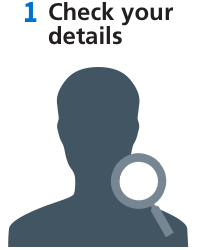
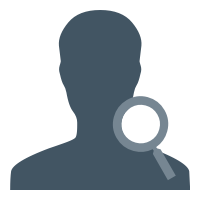
Edited process steps to not be a hacky non-accessible mess

Changed region(s): [[0.03, 0.0, 0.96, 0.99], [0.12, 0.0, 0.21, 0.09]]

diff --git a/views/v3/01-overview.html b/views/v3/01-overview.html
@@ -113,24 +113,54 @@
           </div>
         </div>
         <div class="grid-row">
+
           <div class="column--one-quarter">
+            <div class="grid-row marketing-icon-header">
+              <div class="column--one-quarter-align-right">
+                <h3 class="process-one">1.</h3>
+              </div>
+              <div class="column--three-quarters">
+                <h3>Check your details</h3>
+              </div>
+            </div>
             <img class="marketing-icon" alt="check your details icon"  src="/images/verify-icon.png" />
             <p class="marketing-icon-text">You enter your details and we look for your contact information in the NHS England patient database.</p>
           </div>
+
           <div class="column--one-eighth">
             <img class="next-icon-right" alt="next step indicator" src="/images/next-icon.png" />
           </div>
+
           <div class="column--one-quarter">
+            <div class="grid-row marketing-icon-header">
+              <div class="column--one-quarter-align-right">
+                <h3 class="process-two">2.</h3>
+              </div>
+              <div class="column--three-quarters">
+                <h3>Confirm your identity</h3>
+              </div>
+            </div>
             <img class="marketing-icon" alt="check your details icon" src="/images/verification-method-icon.png" />
             <p class="marketing-icon-text">We send a verification code to your selected contact method and you enter this online.</p>
           </div>
+
           <div class="column--one-eighth">
             <img class="next-icon-right" alt="next step indicator" src="/images/next-icon.png" />
           </div>
+
           <div class="column--one-quarter">
+            <div class="grid-row marketing-icon-header">
+              <div class="column--one-quarter-align-right">
+                <h3 class="process-three">3.</h3>
+              </div>
+              <div class="column--three-quarters">
+                <h3>Set your preferences</h3>
+              </div>
+            </div>
             <img class="marketing-icon" alt="check your details icon" src="/images/choice-icon.png" />
             <p class="marketing-icon-text">You confirm your data sharing preferences, which will be applied within 21 days.</p>
           </div>
+
         </div>
         <hr />
         <h2 class="h3">Register a preference</h2>

diff --git a/public/stylesheets/nhsuk.css b/public/stylesheets/nhsuk.css
@@ -3226,10 +3226,15 @@ input[type=range]:focus::-ms-fill-upper {
     border-color: #004485; }
 
 .v3 .marketing-icon-header {
-  text-align: center; }
+  display: block;
+  margin-left: auto;
+  margin-right: auto; }
   @media (min-width: 925px) {
     .v3 .marketing-icon-header {
       min-height: 64px; } }
+
+.v3 .marketing-icon-header * {
+  padding: 2px; }
 
 .v3 .marketing-icon {
   display: block;
@@ -3238,7 +3243,7 @@ input[type=range]:focus::-ms-fill-upper {
 
 @media (min-width: 925px) {
   .v3 .next-icon-right {
-    margin-top: 100px;
+    margin-top: 150px;
     display: block; } }
 
 @media (max-width: 924px) {
@@ -3248,7 +3253,33 @@ input[type=range]:focus::-ms-fill-upper {
 .v3 .marketing-icon-text {
   text-align: left; }
 
+.process-one {
+  color: #0072ce; }
+
+.process-two {
+  color: #005eb8; }
+
+.process-three {
+  color: #003087; }
+
 /* Testing new column widths */
+.column--one-quarter-align-right {
+  text-align: right;
+  display: block;
+  padding: 0 16px; }
+  @media (min-width: 925px) {
+    .column--one-quarter-align-right {
+      float: left;
+      width: 25%; } }
+
+.column--three-quarters {
+  display: block;
+  padding: 0 16px; }
+  @media (min-width: 925px) {
+    .column--three-quarters {
+      float: left;
+      width: 75%; } }
+
 .column--one-fifth {
   display: block;
   padding: 0 16px; }
@@ -3264,14 +3295,6 @@ input[type=range]:focus::-ms-fill-upper {
     .column--one-sixth {
       float: left;
       width: 16.66667%; } }
-
-.column--five-sixths {
-  display: block;
-  padding: 0 16px; }
-  @media (min-width: 925px) {
-    .column--five-sixths {
-      float: left;
-      width: 83.33333%; } }
 
 .column--one-seventh {
   display: block;

diff --git a/public/stylesheets/components/_v3.scss b/public/stylesheets/components/_v3.scss
@@ -68,12 +68,17 @@
   }
 
   .marketing-icon-header {
-    text-align: center;
+    display: block;
+    margin-left: auto;
+    margin-right: auto;
     @include media(desktop) {
       min-height: 64px;
     }
   }
 
+  .marketing-icon-header * {
+    padding: 2px;
+  }
 
   .marketing-icon {
     display: block;
@@ -83,7 +88,7 @@
 
   .next-icon-right {
     @include media(desktop) {
-      margin-top: 100px;
+      margin-top: 150px;
       display: block;
     }
     @include media($max-width: 924px) {
@@ -98,16 +103,29 @@
   }
 }
 
-/* Testing new column widths */
+.process-one {
+  color: $bright-blue;
+}
+.process-two {
+  color: $blue;
+}
+.process-three {
+  color: $dark-blue;
+}
 
+/* Testing new column widths */
+.column--one-quarter-align-right {
+  text-align: right;
+  @include grid-column(1 / 4);
+}
+.column--three-quarters {
+  @include grid-column(3 / 4);
+}
 .column--one-fifth {
   @include grid-column(1 / 5);
 }
 .column--one-sixth {
   @include grid-column(1 / 6);
-}
-.column--five-sixths {
-  @include grid-column(5 / 6);
 }
 .column--one-seventh {
   @include grid-column(1 / 7);
